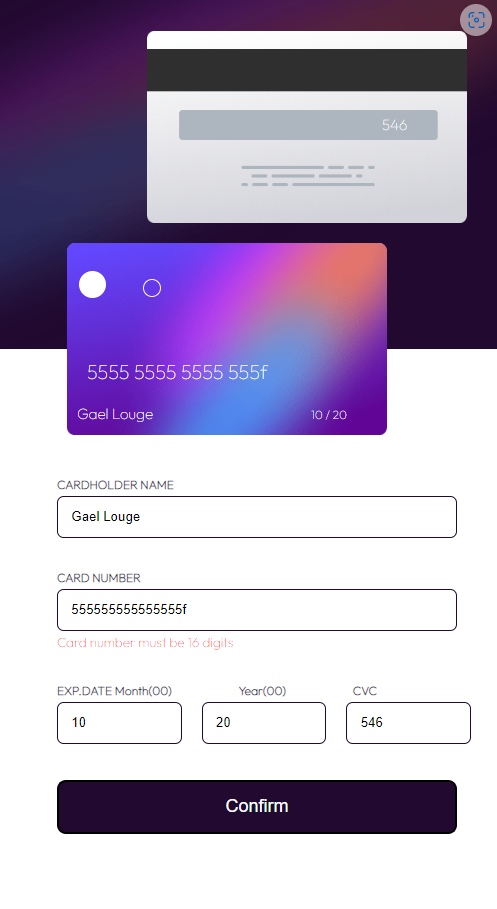
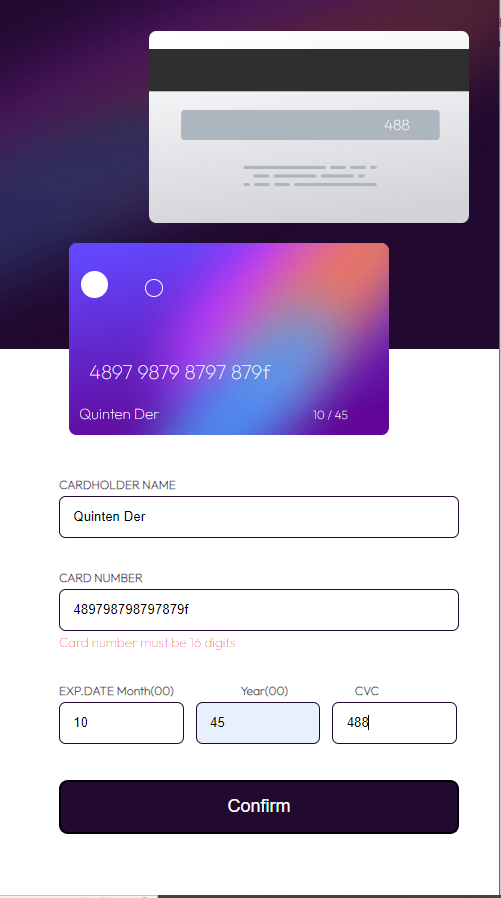
mobiele img

diff --git a/src/app/card/card.component.css b/src/app/card/card.component.css
@@ -305,5 +305,9 @@ form {
     .inputs-date input {
         width: 9.2em;
     }
+    .inputs-date input:nth-child(2) {
+        margin-left: 12px;
+        margin-right: 12px;
+    }
 }
 
